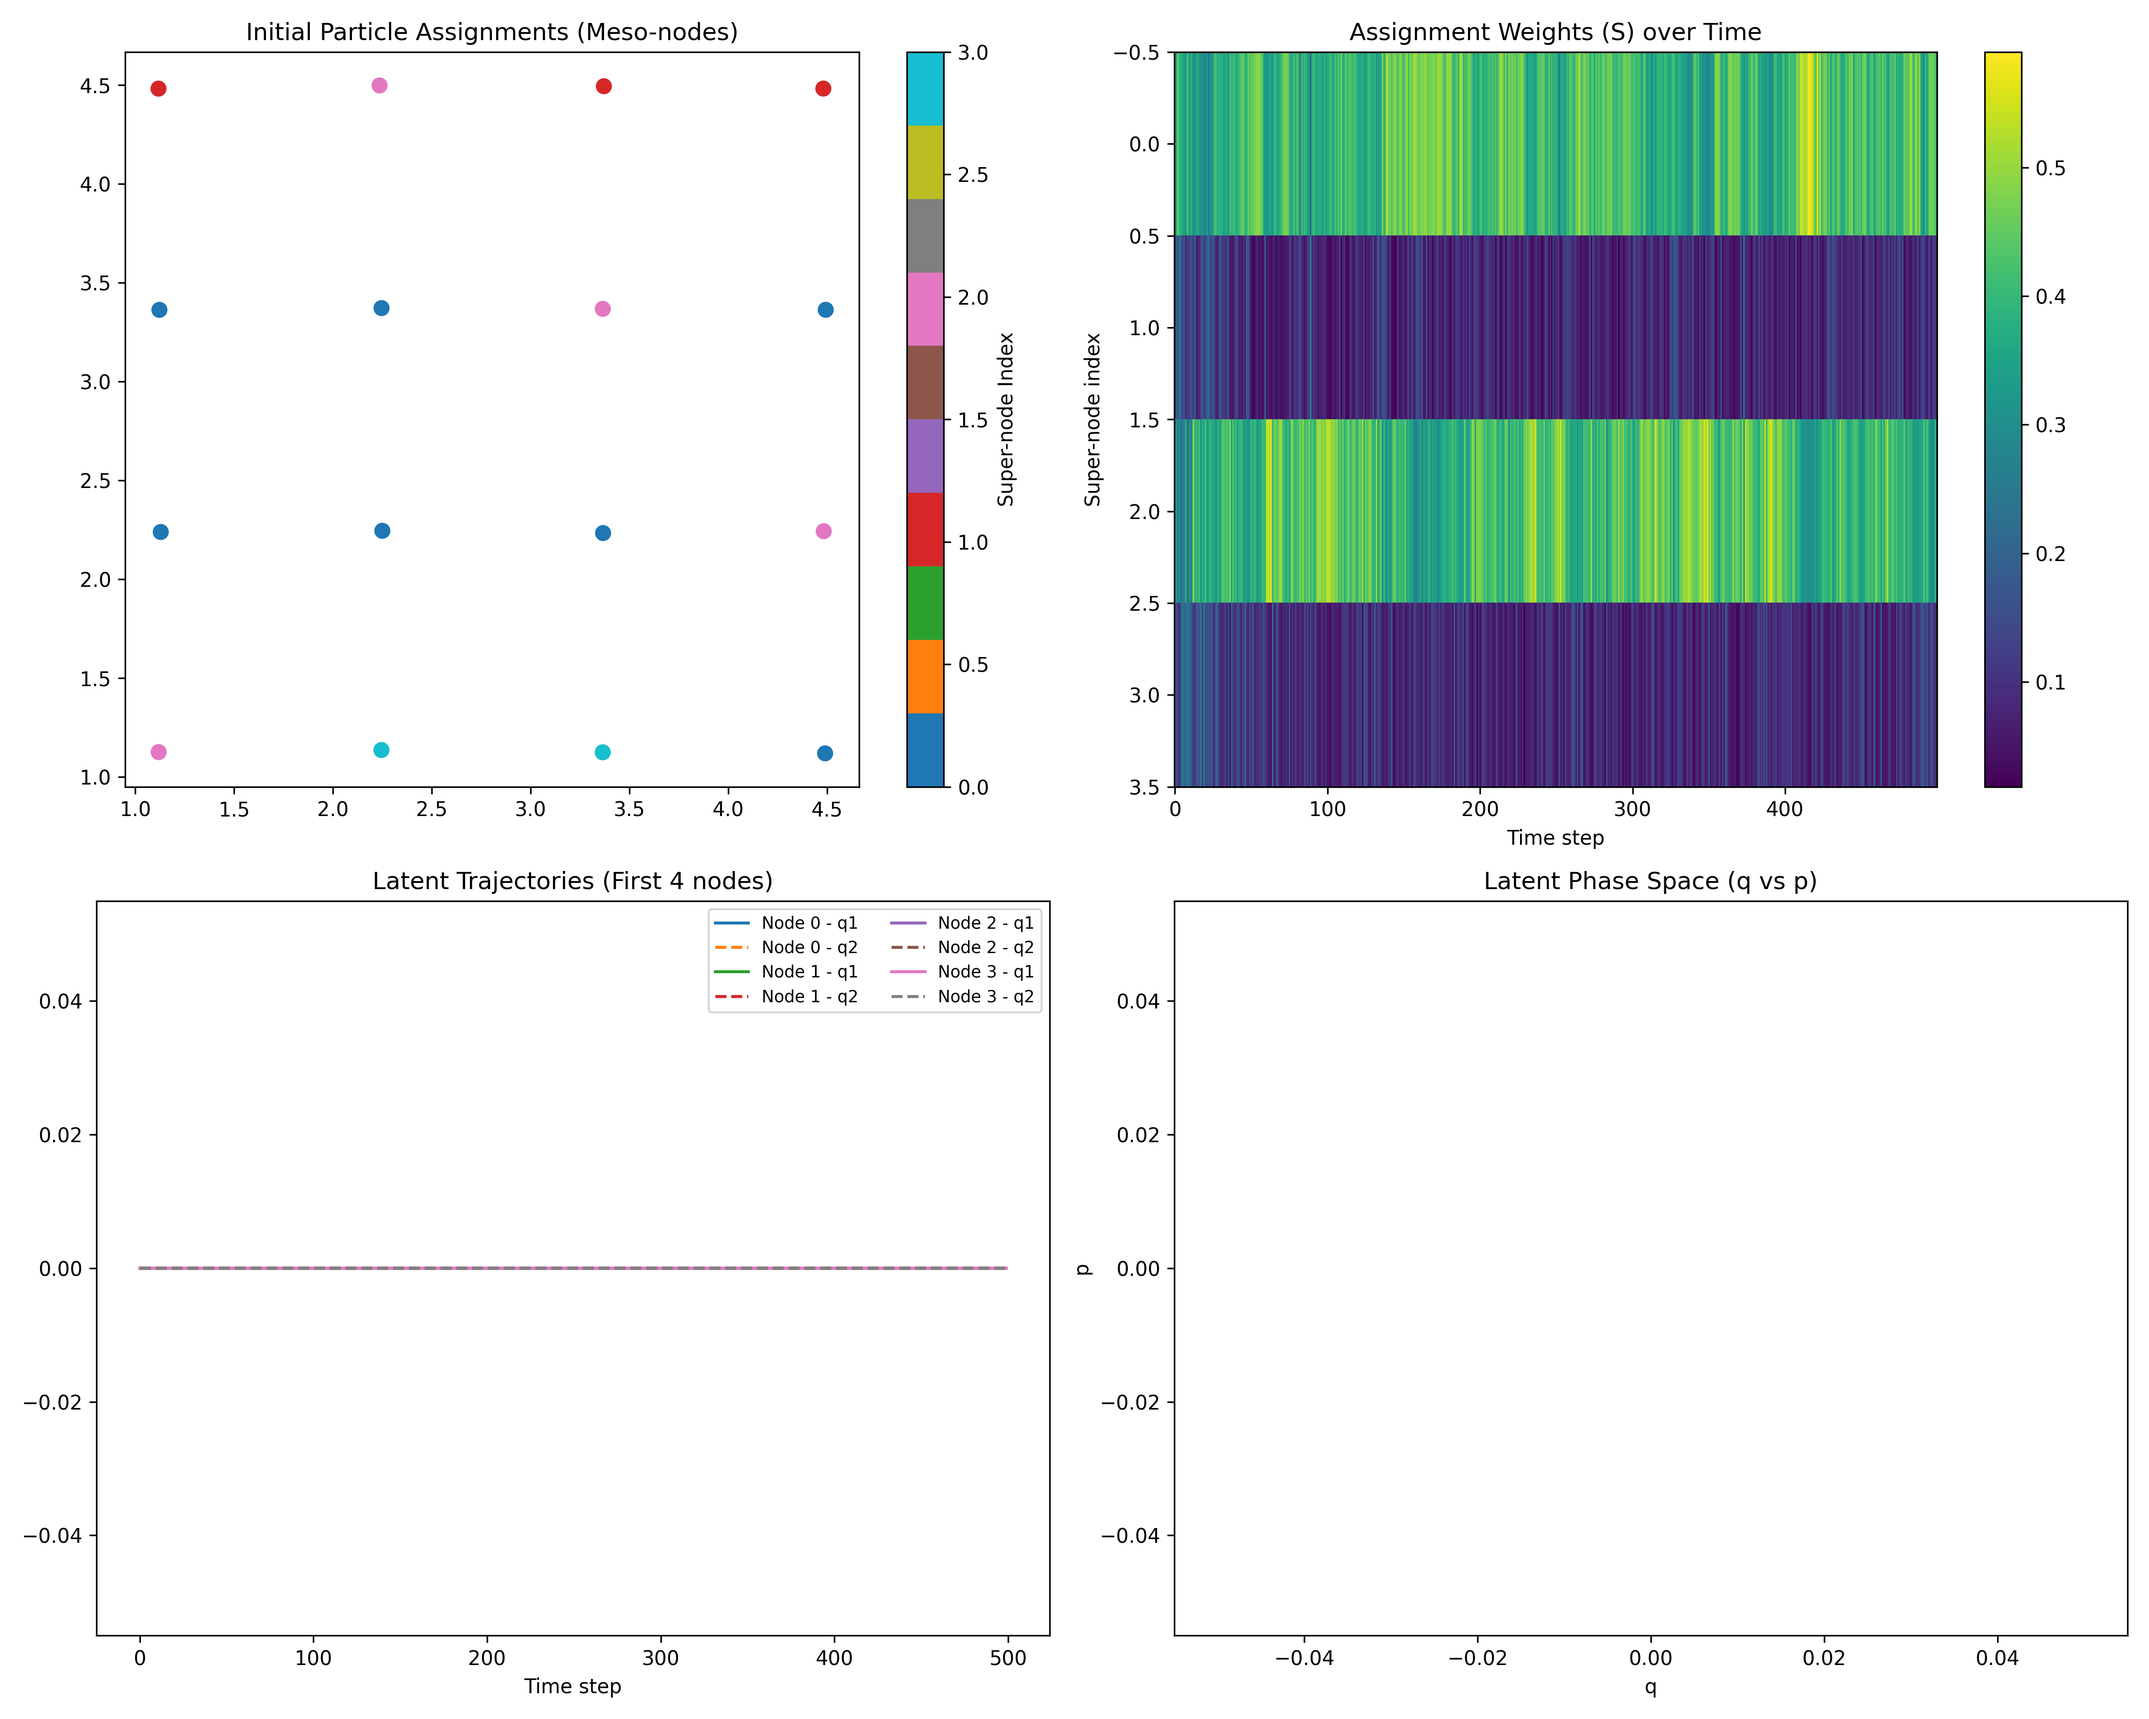
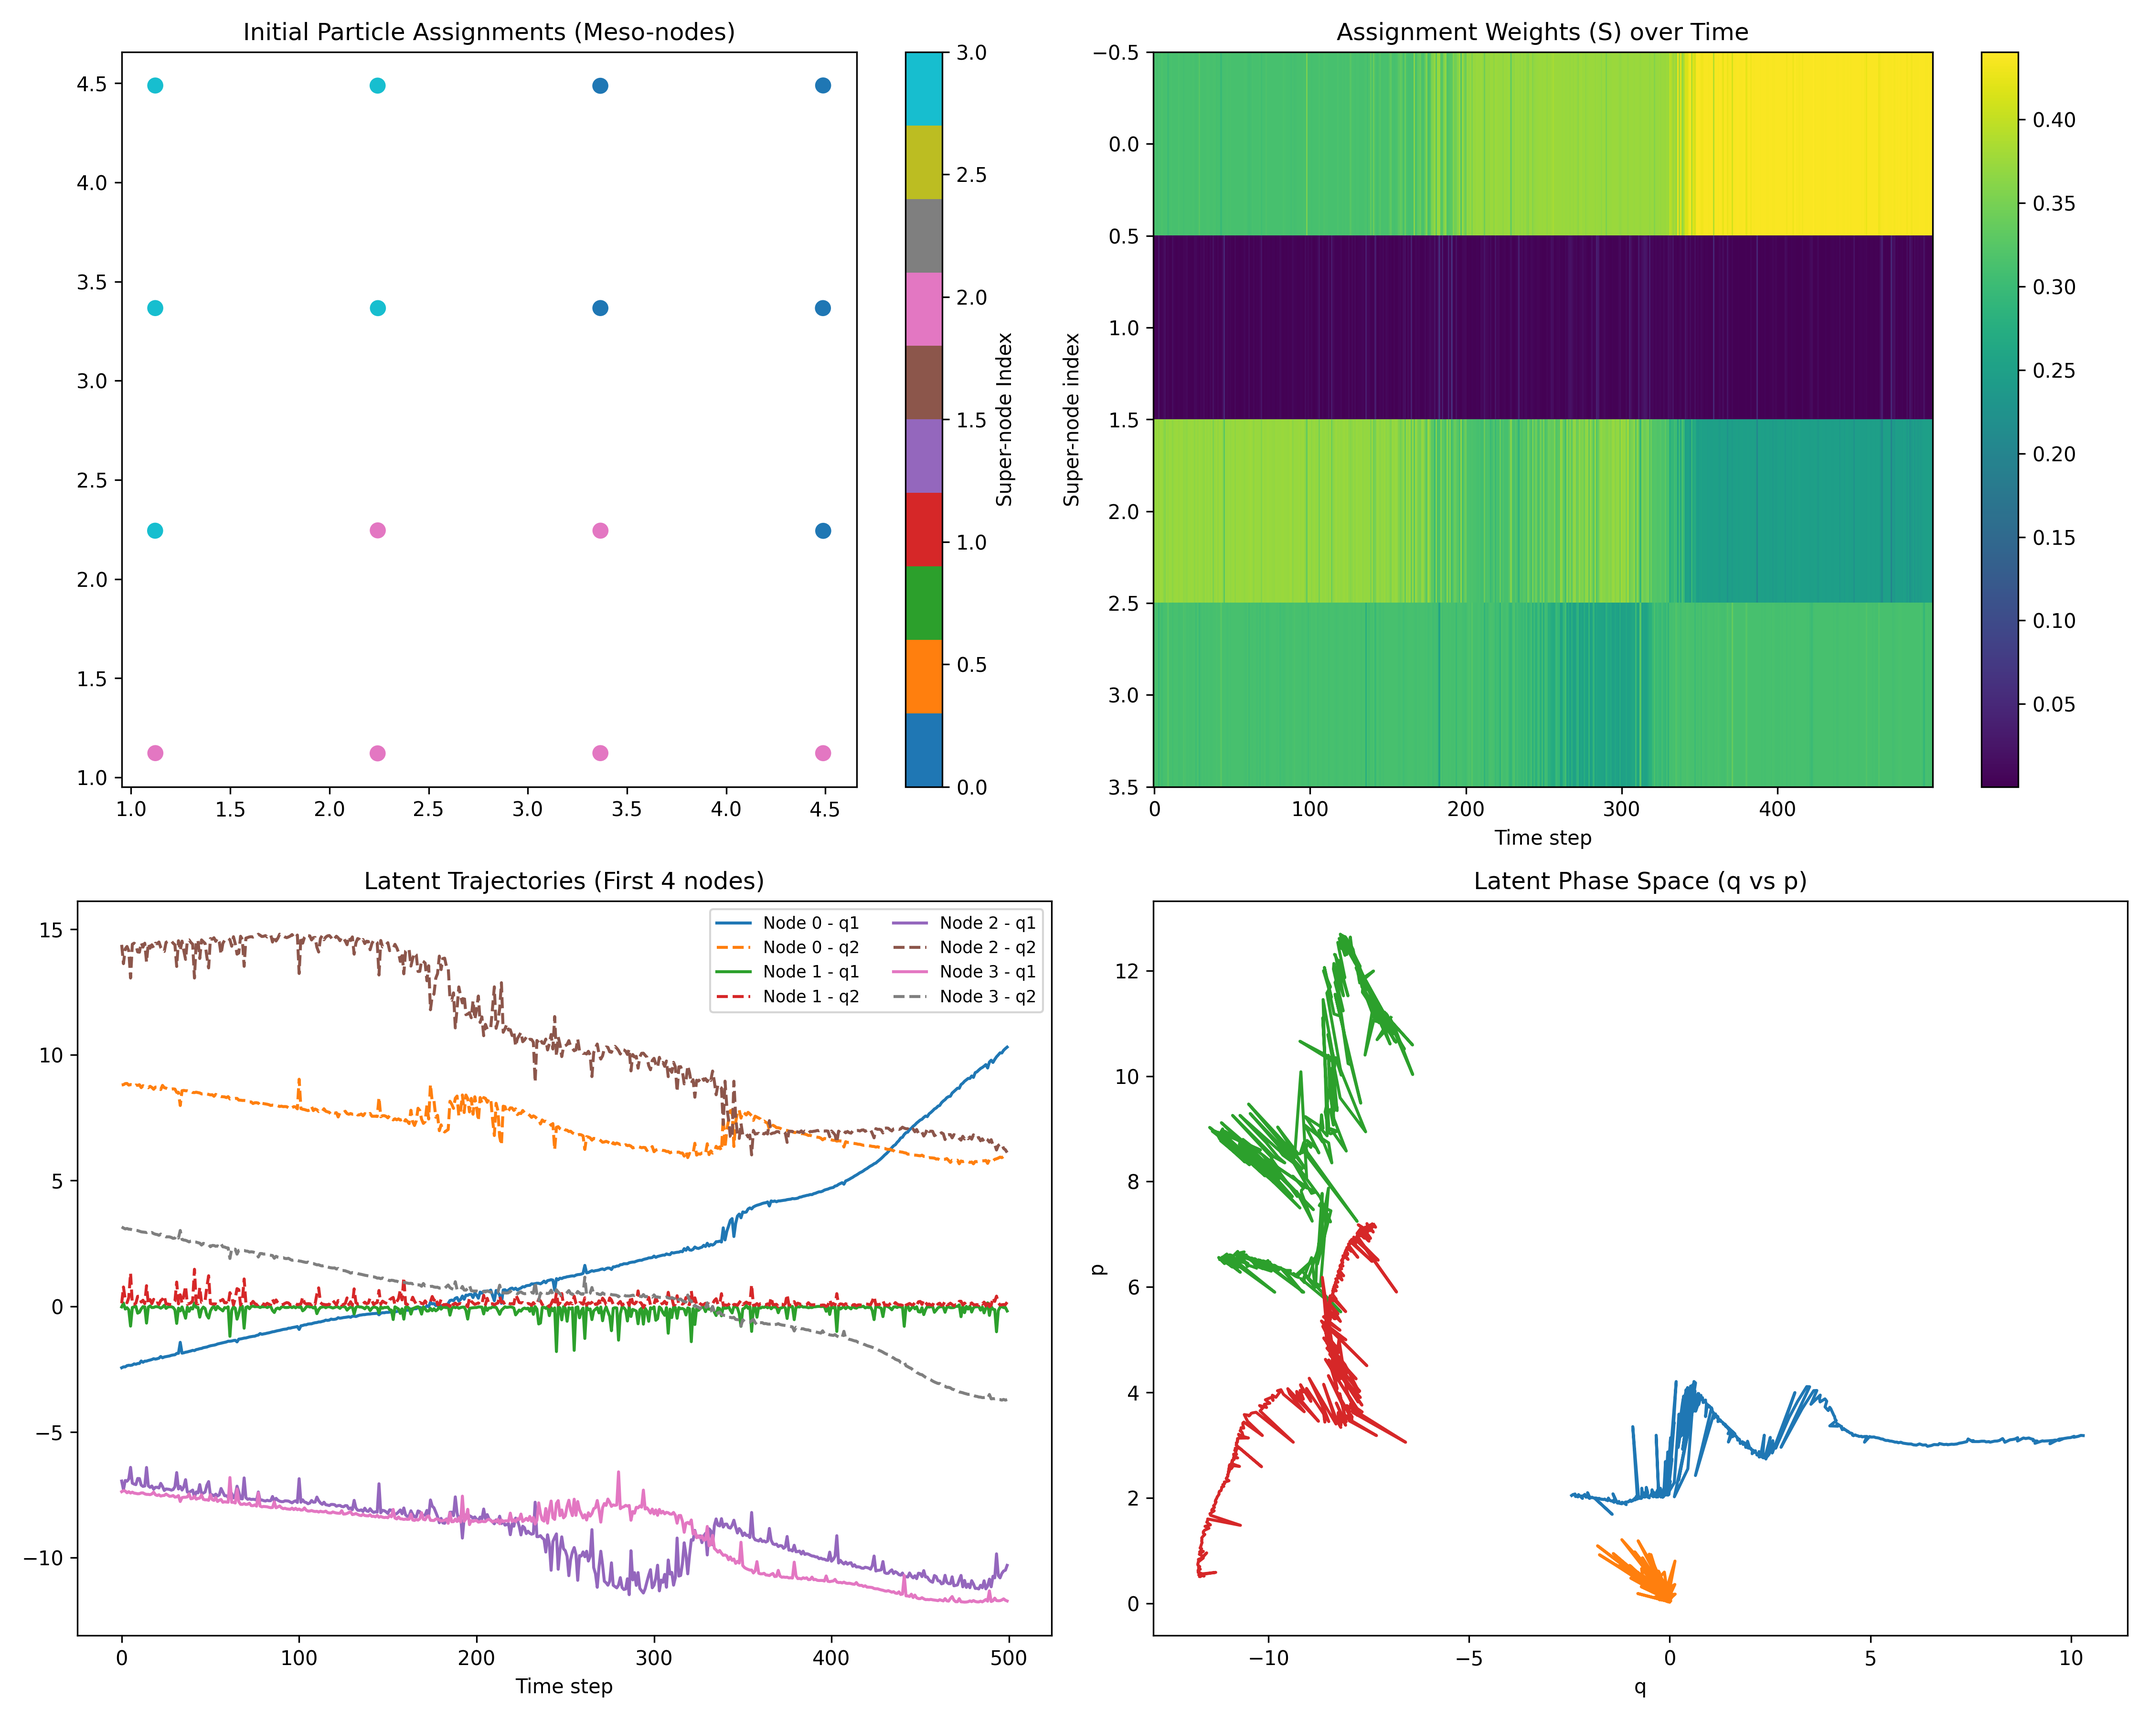
updated

diff --git a/model.py b/model.py
@@ -233,29 +233,46 @@ class GNNEncoder(nn.Module):
         self.ln2 = nn.LayerNorm(hidden_dim)
         self.n_super_nodes = n_super_nodes
         self.latent_dim = latent_dim
-        
+
         # Spatially-aware pooling instead of global_mean_pool
         # Use the Enhanced StableHierarchicalPooling
         self.pooling = StableHierarchicalPooling(hidden_dim, n_super_nodes, min_active_super_nodes=min_active_super_nodes)
-        
+
         self.output_layer = nn.Sequential(
             nn.Linear(hidden_dim, hidden_dim),
             nn.ReLU(),
             nn.Linear(hidden_dim, latent_dim),
-            nn.Tanh()
         )
+
+        # Initialize weights using Xavier uniform
+        self._initialize_weights()
+
+        # Add a learnable gain parameter to prevent vanishing latents
+        self.latent_gain = nn.Parameter(torch.ones(latent_dim) * 1.0)
+
+    def _initialize_weights(self):
+        """Initialize weights using Xavier uniform initialization."""
+        for m in self.modules():
+            if isinstance(m, nn.Linear):
+                nn.init.xavier_uniform_(m.weight)
+                if m.bias is not None:
+                    nn.init.zeros_(m.bias)
 
     def forward(self, x, edge_index, batch, tau=1.0, hard=False):
         # Store initial positions for spatial pooling
-        pos = x[:, :2] 
+        pos = x[:, :2]
         vel = x[:, 2:4] # Assume [pos_x, pos_y, vel_x, vel_y]
-        
+
         x = self.ln1(torch.relu(self.gnn1(x, pos, vel, edge_index)))
         x = self.ln2(torch.relu(self.gnn2(x, pos, vel, edge_index)))
-        
+
         # Pool to K super-nodes preserving spatial features
         pooled, s, assign_losses, mu = self.pooling(x, batch, pos=pos, tau=tau, hard=hard) # [batch_size, n_super_nodes, hidden_dim], [N, n_super_nodes], mu: [B, K, 2]
         latent = self.output_layer(pooled) # [batch_size, n_super_nodes, latent_dim]
+
+        # Apply learnable gain to prevent vanishing latents
+        latent = latent * self.latent_gain
+
         return latent, s, assign_losses, mu
 
 class LatentODEFunc(nn.Module):
@@ -416,6 +433,17 @@ class GNNDecoder(nn.Module):
         # Velocity head: Maps to unconstrained Z-score values
         self.vel_head = nn.Linear(hidden_dim, 2)
 
+        # Initialize weights using Xavier uniform
+        self._initialize_weights()
+
+    def _initialize_weights(self):
+        """Initialize weights using Xavier uniform initialization."""
+        for m in self.modules():
+            if isinstance(m, nn.Linear):
+                nn.init.xavier_uniform_(m.weight)
+                if m.bias is not None:
+                    nn.init.zeros_(m.bias)
+
     def forward(self, z, s, batch, stats=None):
         # z: [batch_size, n_super_nodes, latent_dim]
         # s: [N_total, n_super_nodes]
@@ -489,22 +517,22 @@ class DiscoveryEngineModel(nn.Module):
 
         # Learnable loss log-variances for automatic loss balancing
         # 0: rec, 1: cons, 2: assign, 3: ortho, 4: l2, 5: lvr, 6: align, 7: pruning, 8: sep, 9: conn, 10: sparsity, 11: mi, 12: sym, 13: var
-        # Initialize log_vars[0] (rec) to a moderate value, others to low weight to force reconstruction first
+        # Initialize log_vars[0] (rec) to a high priority value, others to low weight to force reconstruction first
         lvars = torch.zeros(14)
-        lvars[0] = -2.0 # High priority for reconstruction
-        lvars[1] = 2.0  # Low initial priority for consistency
-        lvars[2] = 2.0  # Low initial priority for assignment
-        lvars[3] = 2.0  # Low initial priority for ortho
-        lvars[4] = 2.0  # Low initial priority for l2
-        lvars[5] = 2.0  # Low initial priority for lvr
-        lvars[6] = 2.0  # Low initial priority for align (was -3.0)
-        lvars[7] = 2.0  # Low initial priority for pruning
-        lvars[8] = 2.0  # Low initial priority for sep
-        lvars[9] = 2.0  # Low initial priority for conn
-        lvars[10] = 2.0 # Low initial priority for sparsity
-        lvars[11] = 2.0 # Low initial priority for mi (was not set)
-        lvars[12] = 2.0 # Low initial priority for sym
-        lvars[13] = 2.0 # Low initial priority for var
+        lvars[0] = -5.0 # Very high priority for reconstruction initially
+        lvars[1] = 5.0  # Very low initial priority for consistency
+        lvars[2] = 5.0  # Very low initial priority for assignment
+        lvars[3] = 5.0  # Very low initial priority for ortho (this was causing issues)
+        lvars[4] = 5.0  # Very low initial priority for l2
+        lvars[5] = 5.0  # Very low initial priority for lvr
+        lvars[6] = 5.0  # Very low initial priority for align
+        lvars[7] = 5.0  # Very low initial priority for pruning
+        lvars[8] = 5.0  # Very low initial priority for sep
+        lvars[9] = 5.0  # Very low initial priority for conn
+        lvars[10] = 5.0 # Very low initial priority for sparsity
+        lvars[11] = 5.0 # Very low initial priority for mi
+        lvars[12] = 5.0 # Very low initial priority for sym
+        lvars[13] = 5.0 # Very low initial priority for var
         self.log_vars = nn.Parameter(lvars) 
         
     def get_latent_variance_loss(self, z):

diff --git a/simulator.py b/simulator.py
@@ -3,7 +3,7 @@ import numpy as np
 import torch
 
 class SpringMassSimulator:
-    def __init__(self, n_particles=64, k=10.0, m=1.0, dt=0.01, spring_dist=1.0, dynamic_radius=None, box_size=None):
+    def __init__(self, n_particles=64, k=10.0, m=1.0, dt=0.001, spring_dist=1.0, dynamic_radius=None, box_size=None):
         self.n_particles = n_particles
         self.k = k
         self.m = m
@@ -11,7 +11,7 @@ class SpringMassSimulator:
         self.spring_dist = spring_dist
         self.dynamic_radius = dynamic_radius
         self.box_size = box_size # tuple (L_x, L_y) or None
-        
+
         # Initialize particles in a grid
         side = int(np.ceil(np.sqrt(n_particles)))
         # Start at 1.122 * spring_dist to avoid overlap issues with LJ potential
@@ -22,7 +22,7 @@ class SpringMassSimulator:
         self.pos = np.stack([xv.flatten()[:n_particles], yv.flatten()[:n_particles]], axis=1)
         # Random initial velocity
         self.vel = np.random.randn(n_particles, 2) * 0.5
-        
+
         # Create initial adjacency info
         self.radius = self.dynamic_radius if self.dynamic_radius else 1.1 * self.spring_dist
         if not self.dynamic_radius:
@@ -87,36 +87,40 @@ class SpringMassSimulator:
     def compute_forces(self, pos):
         forces = np.zeros_like(pos)
         pairs = self._compute_pairs(pos) if (self.dynamic_radius or self.box_size) else self.fixed_pairs
-        
+
         if len(pairs) == 0:
             return forces
 
         idx1, idx2 = zip(*pairs)
         idx1 = np.array(idx1)
         idx2 = np.array(idx2)
-        
+
         diff = pos[idx2] - pos[idx1]
-        
+
         # Apply Minimum Image Convention for PBC
         if self.box_size:
             for i in range(2):
                 diff[:, i] -= self.box_size[i] * np.round(diff[:, i] / self.box_size[i])
 
         dist = np.linalg.norm(diff, axis=1, keepdims=True)
-        dist_clamped = np.maximum(dist, 0.2 * self.spring_dist)
-        
-        f_mag = self.k * (dist - self.spring_dist)
-        repulsion = 0.5 * self.k * np.power(self.spring_dist / dist_clamped, 4)
+
+        # Soft floor for particle distances to prevent infinite forces
+        # Use a soft minimum distance to prevent numerical instabilities
+        min_dist = 0.1 * self.spring_dist
+        dist_smooth = np.sqrt(dist**2 + min_dist**2)
+
+        f_mag = self.k * (dist_smooth - self.spring_dist)
+        repulsion = 0.5 * self.k * np.power(self.spring_dist / dist_smooth, 4)
         f_mag -= repulsion
-        
-        force_vec = f_mag * (diff / (dist + 1e-9))
-        
+
+        force_vec = f_mag * (diff / (dist_smooth + 1e-9))
+
         max_f = 500.0
         force_vec = np.clip(force_vec, -max_f, max_f)
-        
+
         np.add.at(forces, idx1, force_vec)
         np.add.at(forces, idx2, -force_vec)
-        
+
         return forces
 
     def energy(self, pos=None, vel=None):

diff --git a/unified_train.py b/unified_train.py
@@ -70,16 +70,17 @@ def main():
             break
 
     # 5. Analysis & Symbolic Discovery
+    print("Extracting latent data for visualization...")
+    z_states, dz_states, t_states = extract_latent_data(model, dataset, sim.dt, include_hamiltonian=args.hamiltonian)
+
     if epoch < 100 or last_rec > 0.25:
         print(f"Skipping symbolic discovery: Latent manifold not stabilized (Epoch: {epoch}, Rec Loss: {last_rec:.4f}).")
         equations = []
     else:
         print("Analyzing latent space...")
         corrs = analyze_latent_space(model, dataset, pos, device=device)
-        
-        print("Extracting latent data for symbolic distillation...")
-        z_states, dz_states, t_states = extract_latent_data(model, dataset, sim.dt, include_hamiltonian=args.hamiltonian)
-        
+
+        print("Performing symbolic distillation...")
         if args.hamiltonian:
             distiller = HamiltonianSymbolicDistiller()
             equations = distiller.distill(z_states, dz_states, args.super_nodes, 4, model=model)

diff --git a/stable_pooling.py b/stable_pooling.py
@@ -273,12 +273,12 @@ class StableHierarchicalPooling(nn.Module):
                 # self.assign_mlp[2] is the Linear(in_channels, n_super_nodes) layer
                 last_layer = self.assign_mlp[2]
                 for idx in inactive_indices:
-                    # Give it a fresh random start for this node's output slice
-                    nn.init.normal_(last_layer.weight[idx], mean=0.0, std=0.02)
+                    # Give it a fresh random start for this node's output slice with higher variance
+                    nn.init.normal_(last_layer.weight[idx], mean=0.0, std=0.1)  # Increased from 0.02
                     nn.init.constant_(last_layer.bias[idx], 0.0)
-                
+
                 # Also reset the active mask slightly for these nodes to allow them to show up
-                self.active_mask[inactive_indices] = 0.2
+                self.active_mask[inactive_indices] = 0.3  # Increased from 0.2 to make revival more likely
 
 
 class DynamicLossBalancer:
